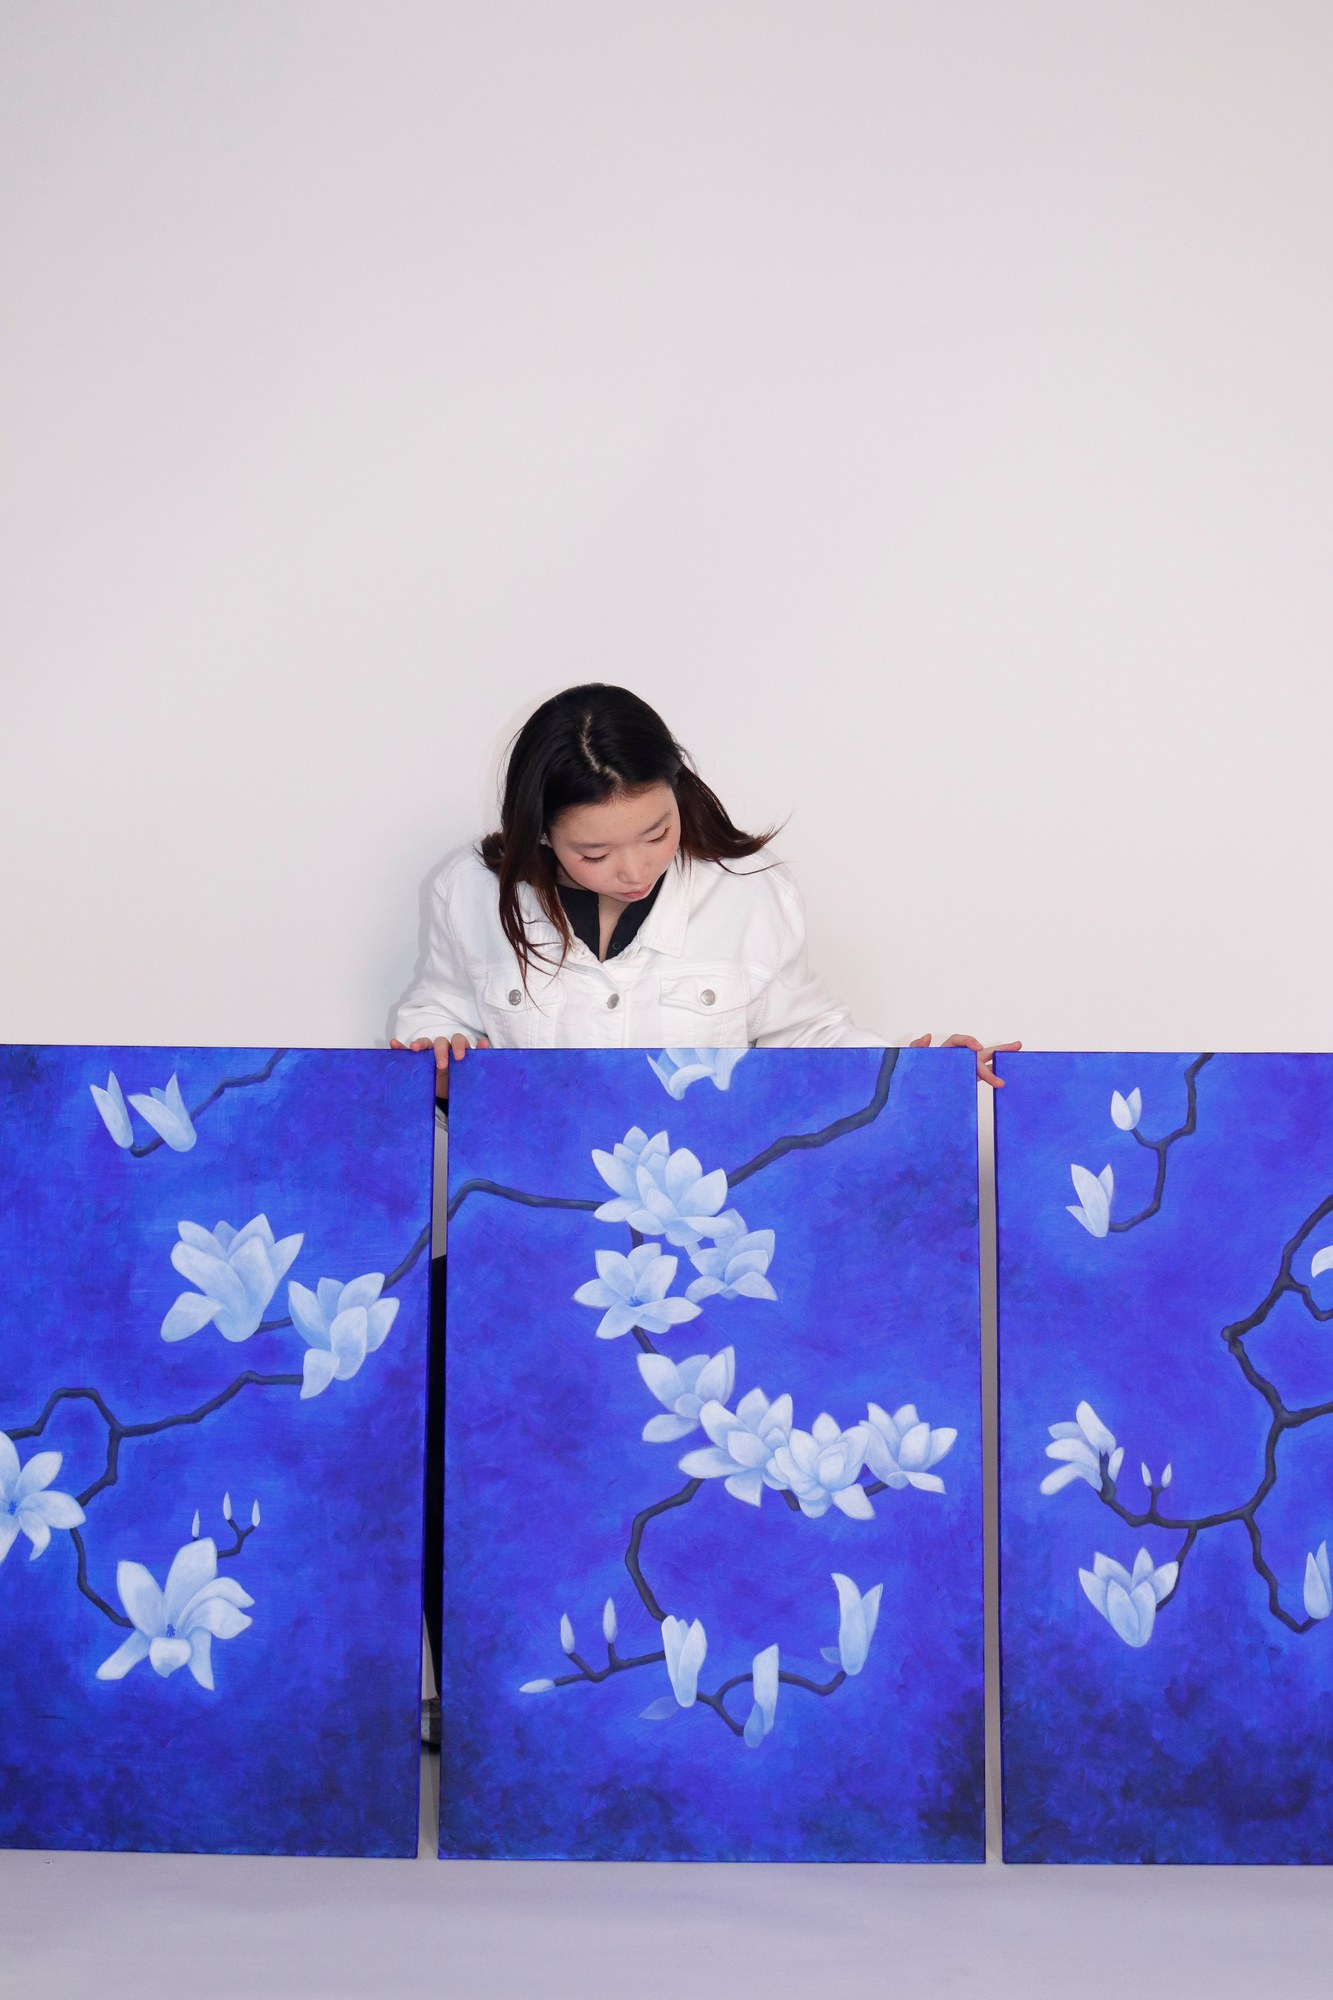
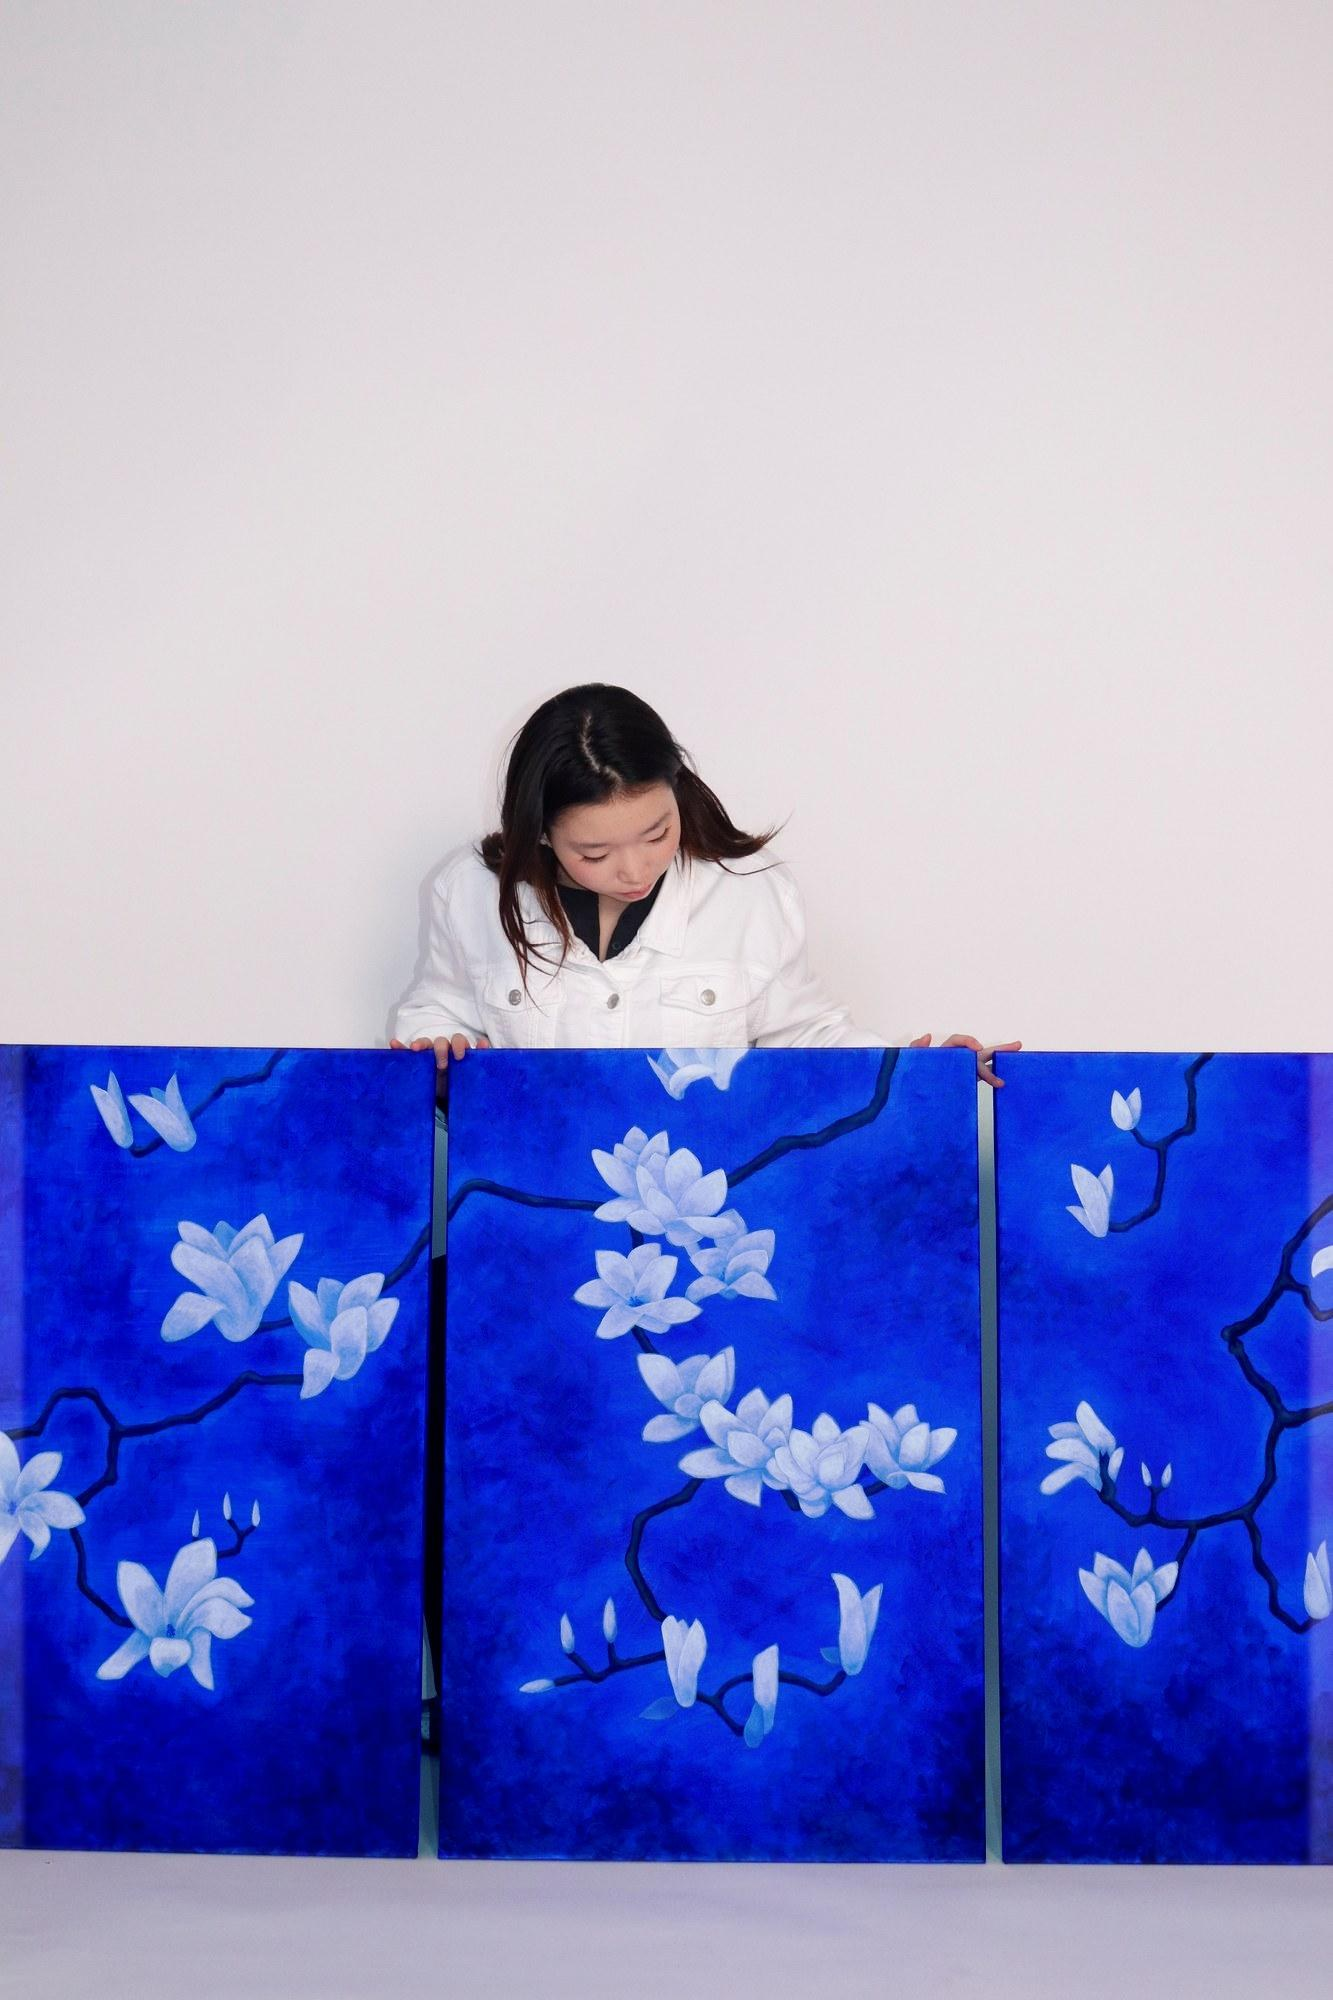
magnolia images colour

diff --git a/src/data/projects.ts b/src/data/projects.ts
@@ -742,7 +742,7 @@ const all: Project[] = [
       {
         type: "images",
         sameHeight: 902,
-        heightScale: 0.8,
+        heightScale: 0.9,
         images: [{ src: "/projects/magnolias/photo-1.jpg", w: 2000, h: 1500, alt: "The three blue magnolia paintings standing side by side in the photo studio" }],
       },
       {
